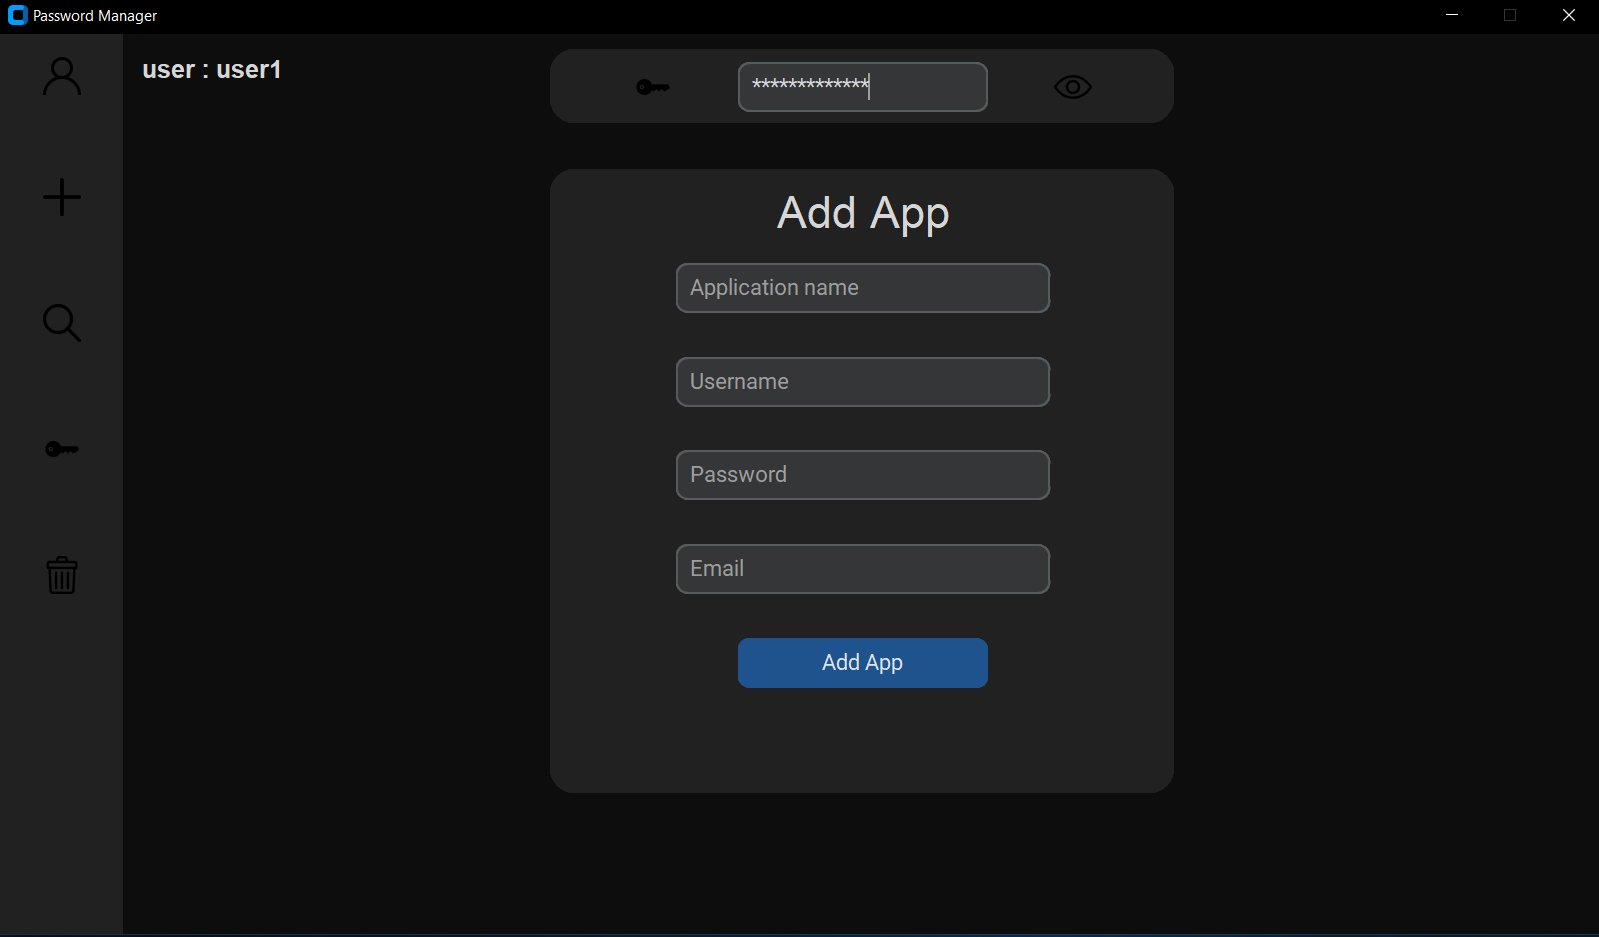
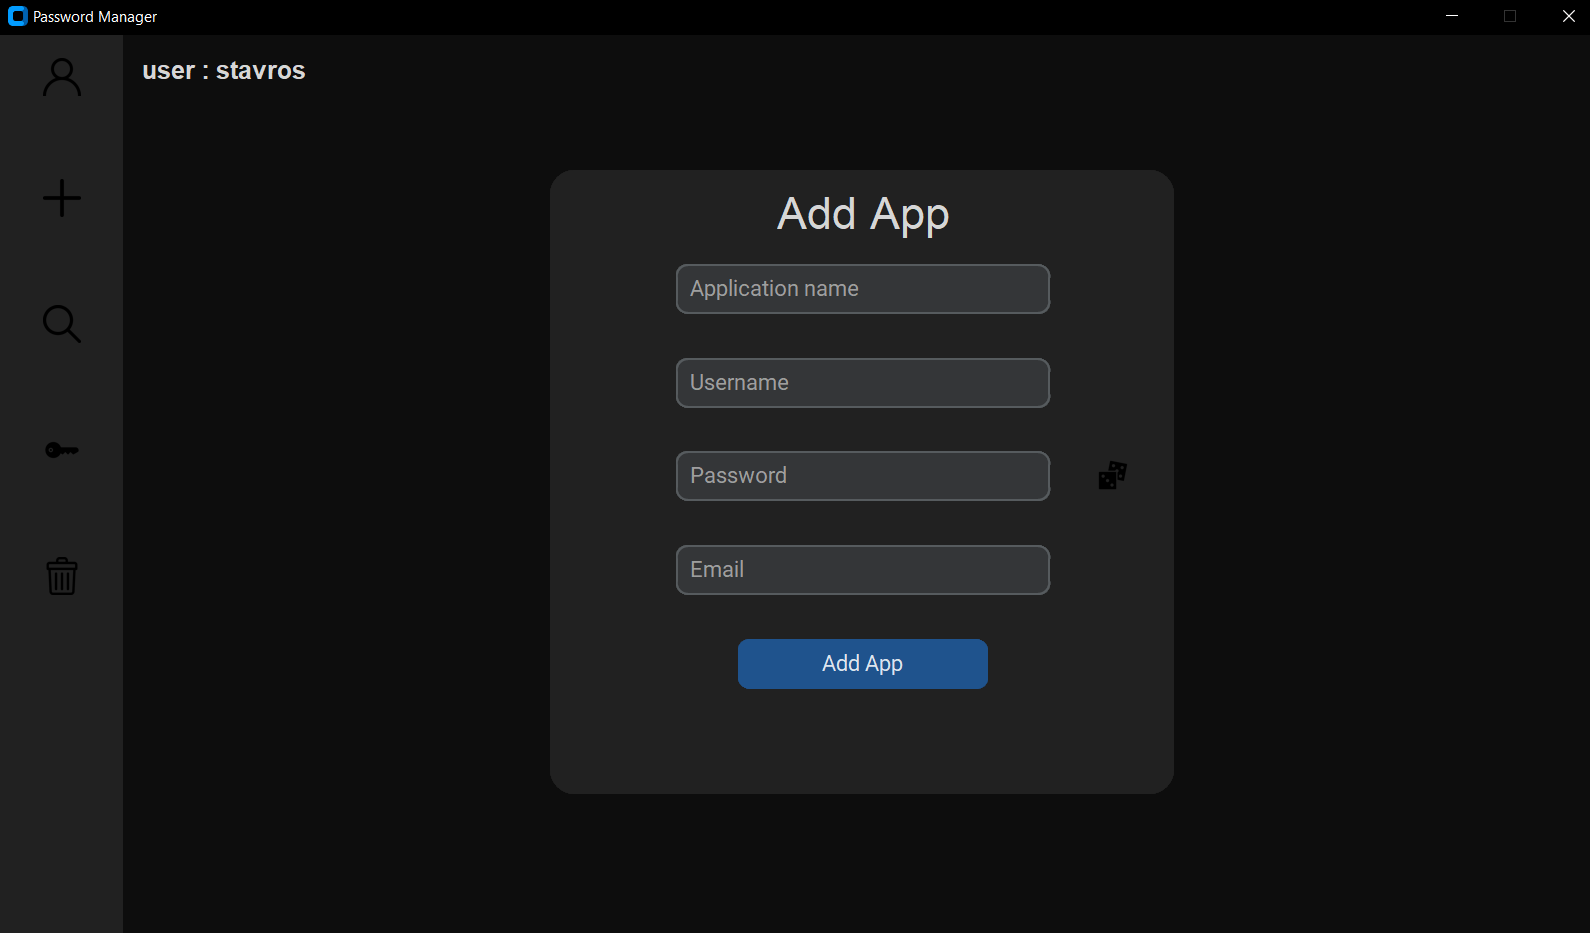
password generator

diff --git a/password_manager/app/add/adata.py b/password_manager/app/add/adata.py
@@ -1,5 +1,8 @@
 import customtkinter as ctk
-
+import string
+import random
+from PIL import Image
+import os
 
 class AddData(ctk.CTkFrame):
 
@@ -18,10 +21,13 @@ class AddData(ctk.CTkFrame):
                          **kwargs)
         
         ctk.set_default_color_theme("dark-blue")
-        '''
-        self.configure(border_color = '#251351')
-        self.configure(border_width=3)
-        '''
+       
+        project_directory = os.path.dirname(os.path.dirname(os.path.dirname(os.path.abspath(__file__))))
+        # import images
+        dice_filepath = os.path.join(project_directory, "images","dice.png")
+        dice_img = Image.open(dice_filepath)
+        dice = ctk.CTkImage(dice_img,size=(30, 30))
+
         self.titlelabel = ctk.CTkLabel(master=self,
                                         text = 'Add App', 
                                         font=("Helvetica",36))
@@ -55,19 +61,22 @@ class AddData(ctk.CTkFrame):
         self.message = ctk.CTkLabel(master=self ,
                                     text = '', 
                                     font=("Roboto",18))
+        
+        self.password_btn = ctk.CTkButton(master=self,
+                                    height = 40,width = 40,
+                                    text="",
+                                    fg_color='transparent',
+                                    image = dice,
+                                    hover=False,
+                                    command = self.generate_password)     
 
         self.titlelabel.place(anchor = 'n' , relx = 0.5 , rely = 0.03)
-
         self.application_entry.place(anchor='n',relx = 0.5,rely = 0.15)
-
         self.username_entry.place(anchor='n',relx = 0.5,rely = 0.3)
-
         self.password_entry.place(anchor='n',relx = 0.5,rely = 0.45)
-
+        self.password_btn.place(anchor='n',relx = 0.9,rely = 0.45)
         self.email_entry.place(anchor='n',relx = 0.5,rely = 0.6)
-
         self.add_btn.place(anchor='n',relx = 0.5,rely = 0.75)
-
         self.message.place(anchor='n',relx = 0.5,rely = 0.9)
 
 
@@ -119,3 +128,18 @@ class AddData(ctk.CTkFrame):
             self.message.configure(text='App added succesfully')
 
         return validation
+
+
+    def generate_password(self):
+        w = self.password_entry.get()
+        self.password_entry.delete(0,(len(w)))
+        def generate(length):
+            characters = string.ascii_letters + string.digits + "!+-#"
+            password = ''.join(random.choice(characters) for _ in range(length))
+            return password
+        
+        generated_password = generate(10)
+        self.password_entry.insert(0,generated_password)
+    
+
+
